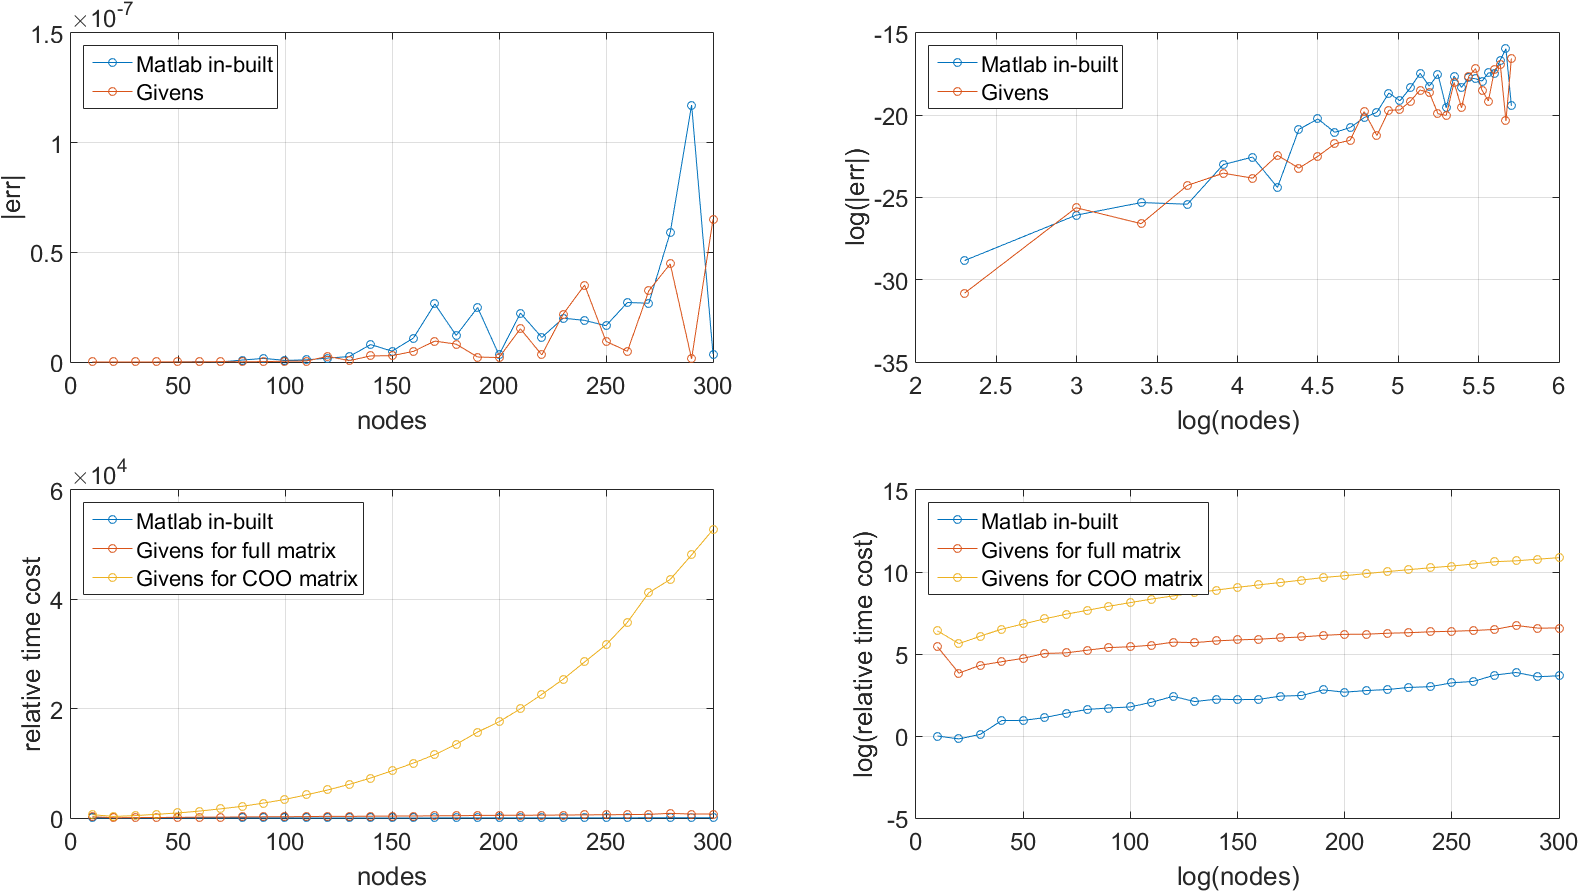
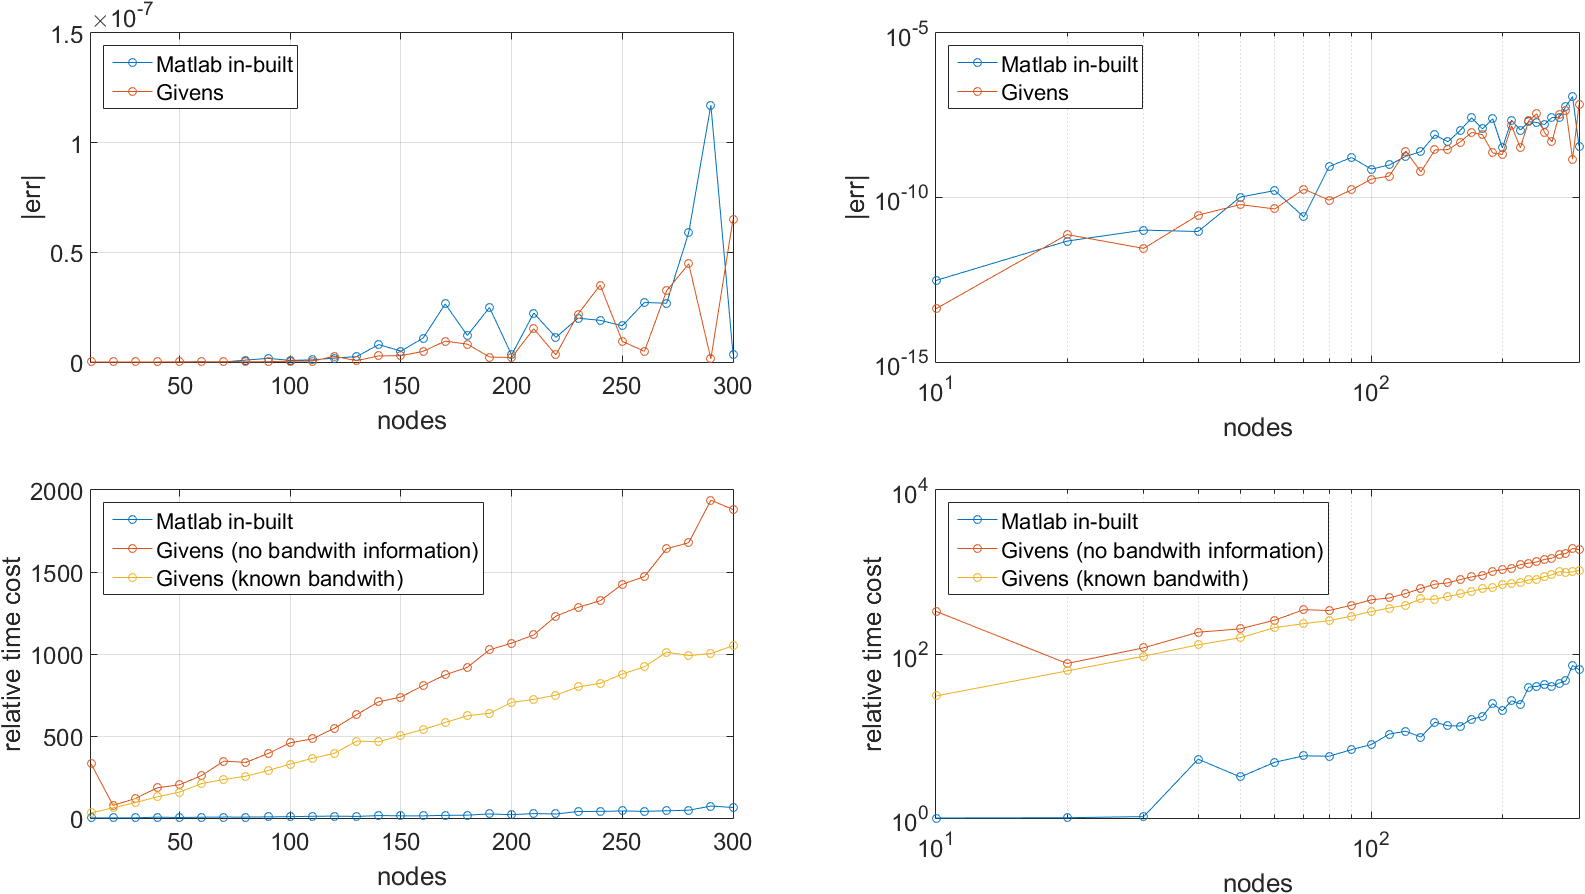
modify the test
compare the cost with/without knowing bandwith

diff --git a/costtest_Givens.m b/costtest_Givens.m
@@ -2,31 +2,27 @@ clear all;
 nodeArray=10:10:300;
 tM = nan(length(nodeArray),1);
 tGf = nan(length(nodeArray),1);
-tGC = nan(length(nodeArray),1);
+tGf_bw = nan(length(nodeArray),1);
 errM = nan(length(nodeArray),1);
 errG_full = nan(length(nodeArray),1);
-errG_COO = nan(length(nodeArray),1);
+errG_full_bw = nan(length(nodeArray),1);
 for i=1:length(nodeArray)
     nodes=nodeArray(i);
     [K,F,ymax,id] = mkbeamproblem(nodes);
-%     condK(i)=cond(K,2);
     tic;alldisp = K\F;tM(i) = toc;
     errM(i) = ymax-alldisp(id);
     if i == 1
         t0 = tM(i);
     end
-    tic;[xf,Af] = Givens_full(K,F,3);tGf(i) = toc;
+    tic;[xf,Af] = Givens_full(K,F,0);tGf(i) = toc;
     errG_full(i) = ymax-xf(id);
-    K_COO = full2sparse(K,'COO');
-    F_COO = full2sparse(F,'COO');
-    tic;[x_COO,A_COO] = Givens_COO(K_COO,F_COO);tGC(i) = toc;
-    xC = sparse2full(x_COO,'COO');
-    errG_COO(i) = ymax-xC(id);
-    
-    
-%     KS=sparse(K); FS=sparse(F);
-%     alldisp = KS\FS;
-%     errS = ymax - alldisp(id);
+%     K_COO = full2sparse(K,'COO');
+%     F_COO = full2sparse(F,'COO');
+%     tic;[x_COO,A_COO] = Givens_COO(K_COO,F_COO);tGC(i) = toc;
+%     xC = sparse2full(x_COO,'COO');
+%     errG_COO(i) = ymax-xC(id);
+    tic;[xf_bw,Af_bw] = Givens_full(K,F,3);tGf_bw(i) = toc;
+    errG_full_bw(i) = ymax-xf_bw(id);
 end
 FS = 18;
 figure(1)
@@ -38,36 +34,42 @@ hold off
 xlabel('nodes'); ylabel('|err|');
 legend('Matlab in-built','Givens','location','NorthWest');
 grid on
+xlim([min(nodeArray) max(nodeArray)])
 set(gca,'FontSize',FS)
 
 subplot(2,2,2)
-plot(log(nodeArray),log(abs(errM)),'o-');
+loglog(nodeArray,abs(errM),'o-');
 hold on
-plot(log(nodeArray),log(abs(errG_full)),'o-');
+loglog(nodeArray,abs(errG_full),'o-');
 hold off
-xlabel('log(nodes)'); ylabel('log(|err|)');
+xlabel('nodes'); ylabel('|err|');
 legend('Matlab in-built','Givens','location','NorthWest');
 grid on
+xlim([min(nodeArray) max(nodeArray)])
 set(gca,'FontSize',FS)
 
 subplot(2,2,3)
 plot(nodeArray,tM/t0,'o-');
 hold on
 plot(nodeArray,tGf/t0,'o-');
-plot(nodeArray,tGC/t0,'o-');
+% plot(nodeArray,tGC/t0,'o-');
+plot(nodeArray,tGf_bw/t0,'o-');
 hold off
 xlabel('nodes'); ylabel('relative time cost');
-legend('Matlab in-built','Givens for full matrix','Givens for COO matrix','location','NorthWest');
+legend('Matlab in-built','Givens (no bandwith information)','Givens (known bandwith)','location','NorthWest');
 grid on
+xlim([min(nodeArray) max(nodeArray)])
 set(gca,'FontSize',FS)
 
 subplot(2,2,4)
-plot(nodeArray,log(tM/t0),'o-');
+loglog(nodeArray,tM/t0,'o-');
 hold on
-plot(nodeArray,log(tGf/t0),'o-');
-plot(nodeArray,log(tGC/t0),'o-');
+loglog(nodeArray,tGf/t0,'o-');
+% plot(nodeArray,log(tGC/t0),'o-');
+loglog(nodeArray,tGf_bw/t0,'o-');
 hold off
-xlabel('log(nodes)'); ylabel('log(relative time cost)');
-legend('Matlab in-built','Givens for full matrix','Givens for COO matrix','location','NorthWest');
+xlabel('nodes'); ylabel('relative time cost');
+legend('Matlab in-built','Givens (no bandwith information)','Givens (known bandwith)','location','NorthWest');
 grid on
+xlim([min(nodeArray) max(nodeArray)])
 set(gca,'FontSize',FS)
